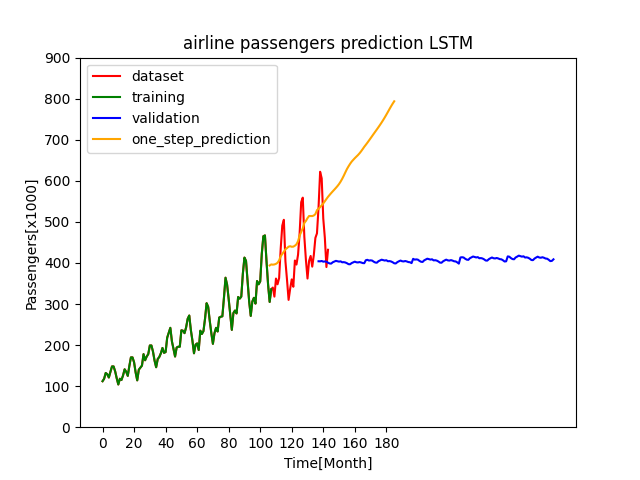
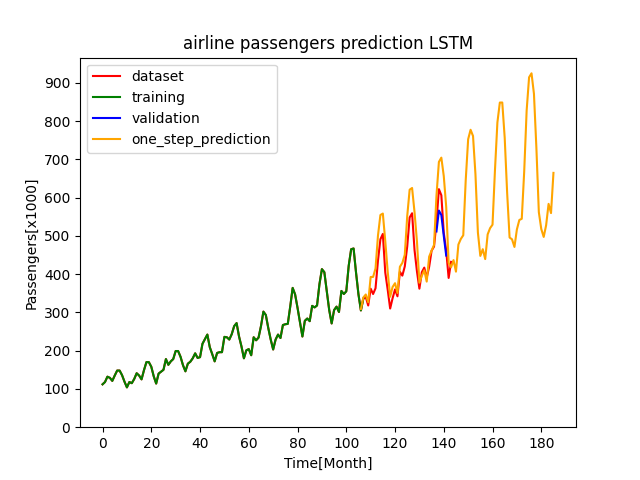
implement transformer encoder for airline passengers in keras

diff --git a/TimeSeriesPrediction/UnivariatTimeSeriesForecast/AirlinePassengers/Keras/Transformer/airline_passengers_keras_transformer.py b/TimeSeriesPrediction/UnivariatTimeSeriesForecast/AirlinePassengers/Keras/Transformer/airline_passengers_keras_transformer.py
@@ -35,7 +35,7 @@ def main():
     prediction_results = one_step_ahead_forecast(model, start_value_reshaped, number_of_predictions)
 
     prediction = pd.DataFrame()
-    test = train_scaler.inverse_transform(prediction_results).flatten()
+    test = train_scaler.inverse_transform([prediction_results]).flatten()
     prediction["one_step_prediction"] = test
     prediction.index += airline_passengers.threshold + start_index
 
@@ -76,18 +76,18 @@ class EncoderModel(tf.keras.Model):
     def call(self, inputs):
         #x1 = self.normalize(inputs)
         x1 = self.attention(inputs, inputs)
-        #x1 = self.dropout(x1)
+        x1 = self.dropout(x1)
 
-        #res = x1 + inputs
+        res = x1 + inputs
 
         #x2 = self.normalize(res)
-        #x2 = self.convolution1(x2)
-        #x2 = self.dropout(x2)
-        #x2 = self.convolution2(x2)
+        x2 = self.convolution1(res)
+        x2 = self.dropout(x2)
+        x2 = self.convolution2(x2)
 
-        #x2 = self.global_pooling(x2)
+        x2 = self.global_pooling(x2)
 
-        x2 = self.dense1(x1)
+        x2 = self.dense1(x2)
         x2 = self.dense2(x2)
         return x2
 
